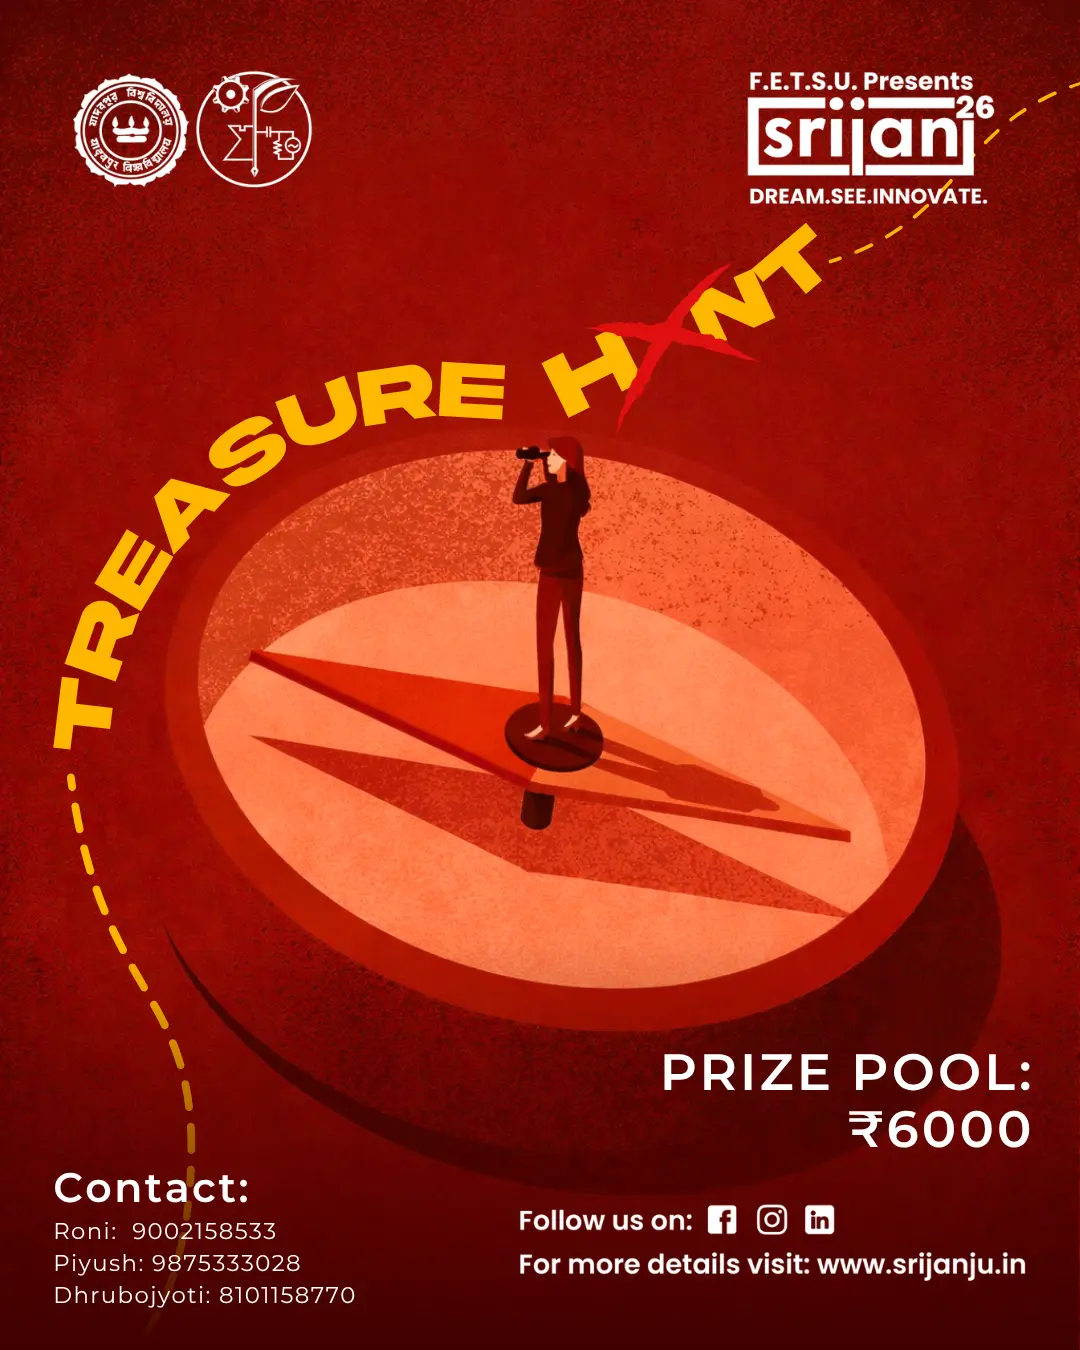
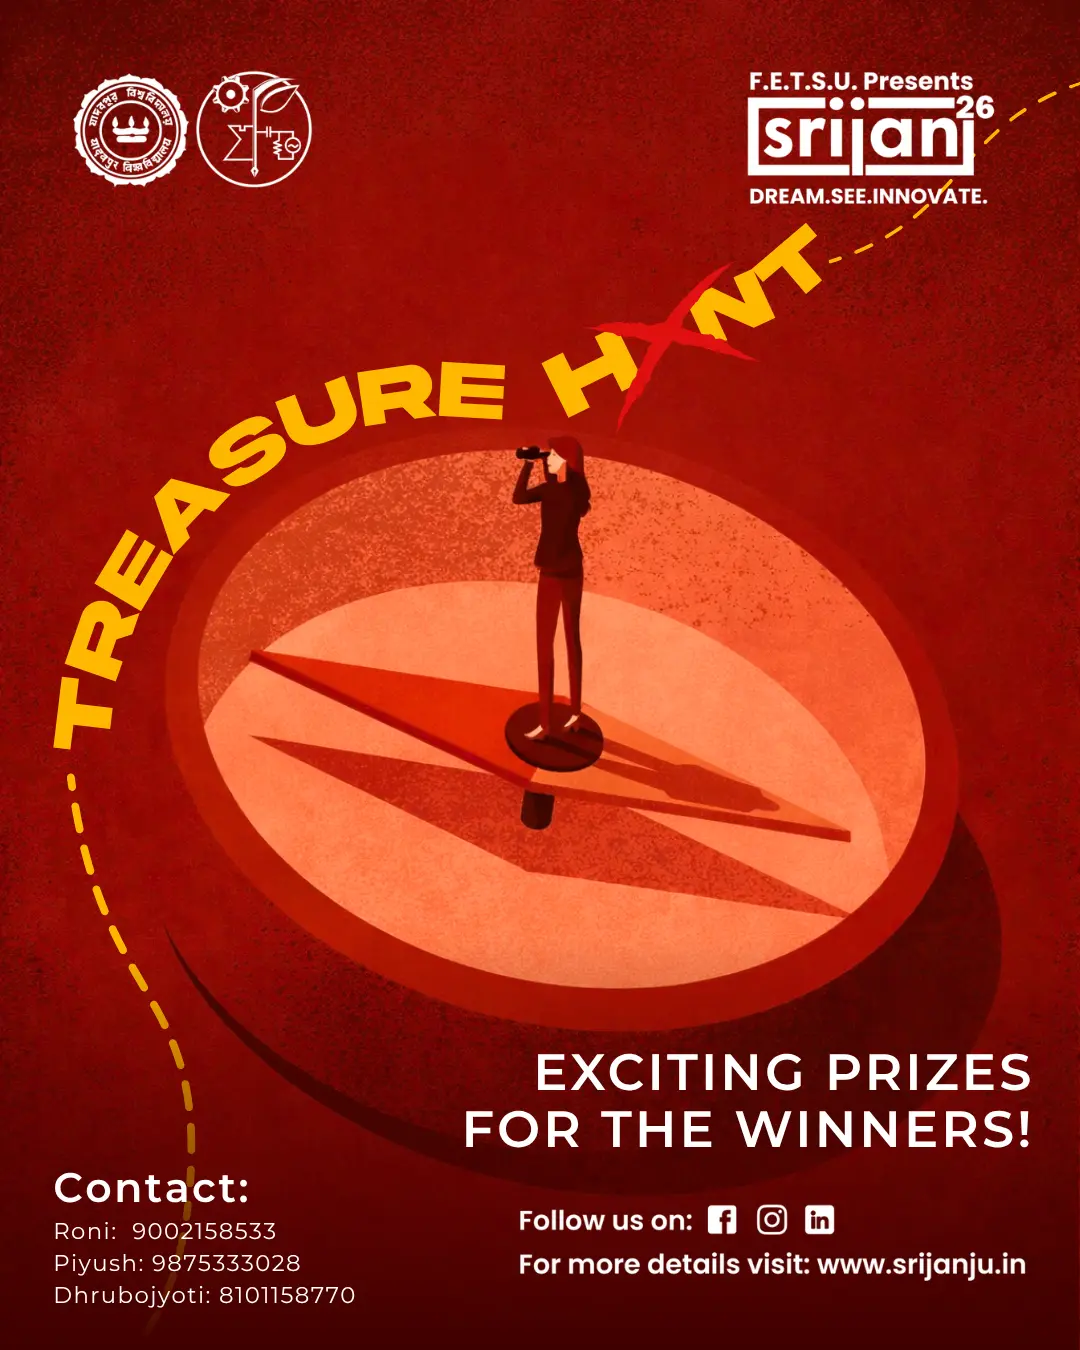
updated treasure hunt prize pool, poster, uec-bgmi form link, pass the baton details

Changed region(s): [[0.4278, 0.7778, 0.9778, 0.8711]]

diff --git a/data/eventsList.ts b/data/eventsList.ts
@@ -306,7 +306,7 @@ const CODING_EVENTS: Event[] = [
     ],
     eventFormat: [
       "# Round 1: Online Prelims",
-      "A **2-hour ICPC-style programming contest**",
+      "A **2hr 30mins ICPC-style programming contest**",
       "Contest will consist of **6–8 algorithmic problems**",
       "Top **15–20 teams qualify for the final round**",
       "Online Proctoring is going to be used via OBS in the preliminary round. Please find more details [here](https://drive.google.com/file/d/1k-wdhO2w0z5TjsBSMFLKjZFGewbcaJw0/view?usp=sharing).",
@@ -1467,7 +1467,7 @@ const ESPORTS_EVENTS: Event[] = [
     rules: ["Qualifiers", "Chicken Dinner", "Strategy"],
     lastDate: "TBA",
     prizePool: "TBA",
-    link: "https://forms.gle/oV3diUXEspYBA4Jr6",
+    link: "https://docs.google.com/forms/d/1LrrS73sB2btOmex5b_0Ql9W96tEU2E2S9dSn7kzNHVI/edit?chromeless=1",
     driveLink:
       "https://drive.google.com/file/d/1IFOvV7hOMr1weXoOdkBEeIgcZOXIYrJV/view?usp=sharing",
     image: "/images/posters/UECSrijan2026.webp",
@@ -2023,10 +2023,7 @@ const MISC_EVENTS: Event[] = [
       "Decode the map, chase the clues, and outrun time to claim the final treasure",
     ],
     lastDate: "TBA",
-    prizePool: "₹ 6,000",
-    winnerPrize: "₹3,000",
-    runnersUpPrize: "₹2,000",
-    secondRunnersUpPrize: "₹1,000",
+    prizePool: "Exciting Prizes",
     link: "/register/treasure-hunt",
     driveLink:
       "https://drive.google.com/file/d/185-KUtYUhOg-SaRIcbPkYxiVDFnEt6BG/view?usp=sharing",
